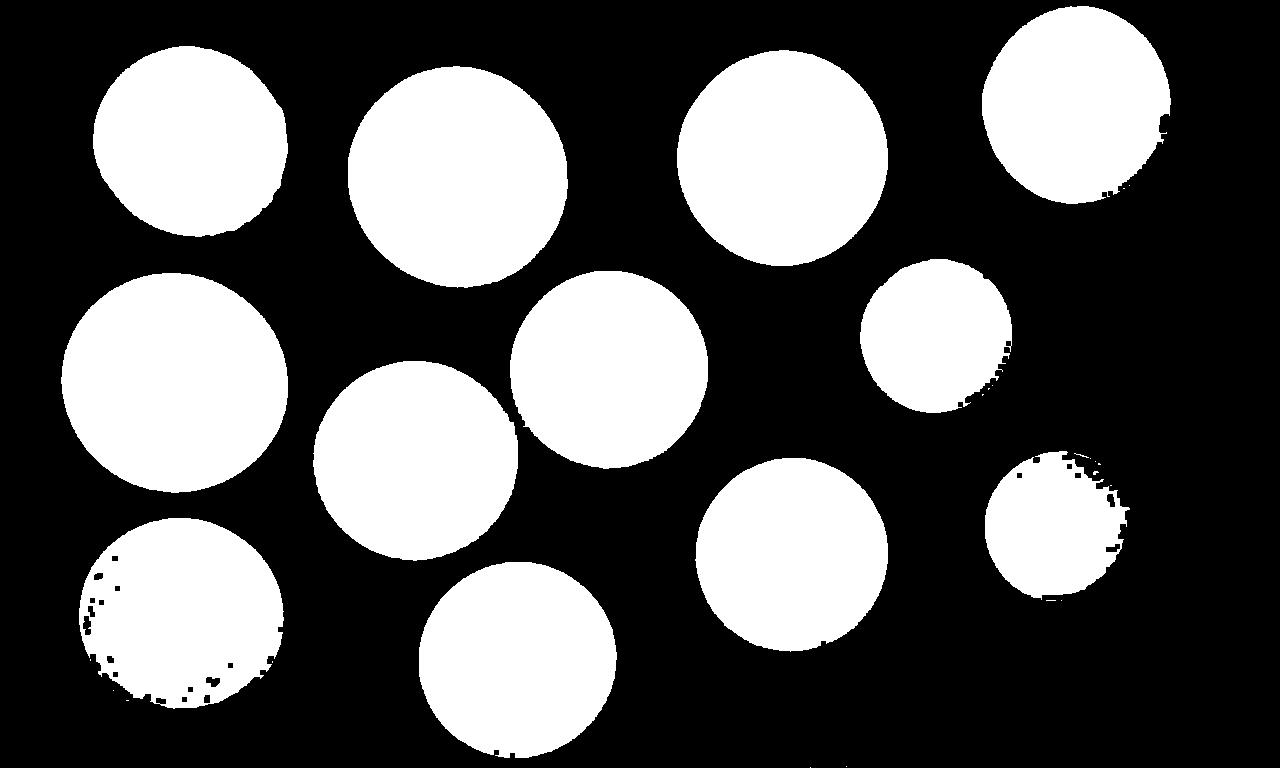
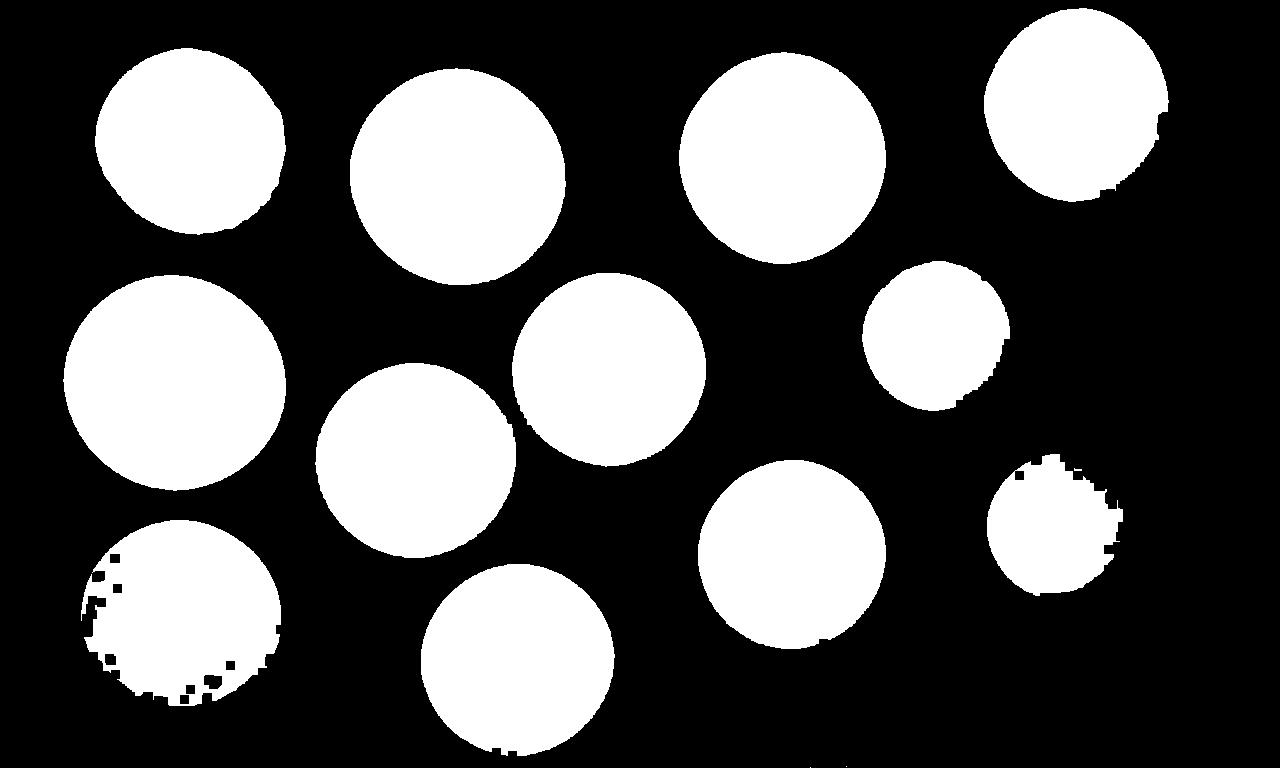
Atualização de código

diff --git a/moedasResolucaoV2.m b/moedasResolucaoV2.m
@@ -101,28 +101,39 @@ B = [1 1 1 1 1;
 
 C = A;
 
-for i=2:size(A,1)-2
-  for j=2:size(A,2)-2
-    if(A(i,j)==1) %se o pixel central da vizinhança de A = 1, deve ser analizado
-       vizA = [A(i-2,j-2) A(i-2,j-1) A(i-2,j) A(i-2,j+1) A(i-2,j+2);...
-             A(i-1,j-2) A(i-1,j-1) A(i-1,j) A(i-1,j+1) A(i-1,j+2);...
-             A(i,j-2) A(i,j-1) A(i,j) A(i,j+1) A(i,j+2);...
-             A(i+1,j-2) A(i+1,j-1) A(i+1,j) A(i+1,j+1) A(i+1,j+2);...
-             A(i+2,j-2) A(i+2,j-1) A(i+2,j) A(i+2,j+1) A(i+2,j+2)];
+for k = 1:2
+  for i=2:size(A,1)-2
+    for j=2:size(A,2)-2
+      if(A(i,j)==1) %se o pixel central da vizinhança de A = 1, deve ser analizado
+         vizA = [A(i-2,j-2) A(i-2,j-1) A(i-2,j) A(i-2,j+1) A(i-2,j+2);...
+               A(i-1,j-2) A(i-1,j-1) A(i-1,j) A(i-1,j+1) A(i-1,j+2);...
+               A(i,j-2) A(i,j-1) A(i,j) A(i,j+1) A(i,j+2);...
+               A(i+1,j-2) A(i+1,j-1) A(i+1,j) A(i+1,j+1) A(i+1,j+2);...
+               A(i+2,j-2) A(i+2,j-1) A(i+2,j) A(i+2,j+1) A(i+2,j+2)];
 %      vizA = [A(i-1,j-1) A(i-1,j) A(i-1,j+1);...
 %            A(i,j-1) A(i,j) A(i,j+1);...
 %            A(i+1,j-1) A(i+1,j) A(i+1,j+1)];
-      if (sum(sum(vizA==B))!=25) % se todos os pixels são iguais entre a vizinhança de A e B
-        C(i,j)=0;
-      end    
+        if (sum(sum(vizA==B))!=25) % se todos os pixels são iguais entre a vizinhança de A e B
+          C(i,j)=0;
+        end    
+      end
     end
   end
+  A = C;
 end
-
 figure('Name','Imagem Moedas Erodida')
 imshow(C)
 
 imwrite(C,'/home/gustavo/projetosGit/PDI/imMoedasErodidas.jpg');
+
+%%%%%%%%%%%%%%%%%%%%%%%%%%%%%%%%%%%%%%%%%%%%%%%%%%%%%%%%%%%%%%%%%%   
+%%%%%%%%%%%%%%%%% MOEDAS - PORCENTAGEM %%%%%%%%%%%%%%%%%%%%%%%%%%%  
+
+perc = (sum(sum(C))*100)/(size(C,1)*size(C,2));
+figure('Name','Moedas - Porcentagem')
+imshow(C)
+
+title(strcat('Percentual de moedas: ',int2str(perc),' %'))
 
 %%%%%%%%%%%%%%%%%%%%%%%%%%%%%%%%%%%%%%%%%%%%%%%%%%%%%%%%%%%%%%%%%%   
 %%%%%%%%%%%%%%%%% MOEDAS - ROTULANDO %%%%%%%%%%%%%%%%%%%%%%%%%%%%%  
@@ -137,7 +148,7 @@ for(i=2:size(imBW,1))
   for(j=2:size(imBW,2))
     if(imBW(i,j)==1)
       if((imBW(i-1,j)==0)&&(imBW(i,j-1)==0))
-        rotulo+=20; % novo rotulo (soma de 10 em 10)
+        rotulo+=2; % novo rotulo (soma de 10 em 10)
         imRotulo(i,j)=rotulo;
       else
         if((imBW(i-1,j)==1)&&(imBW(i,j-1)==0))
